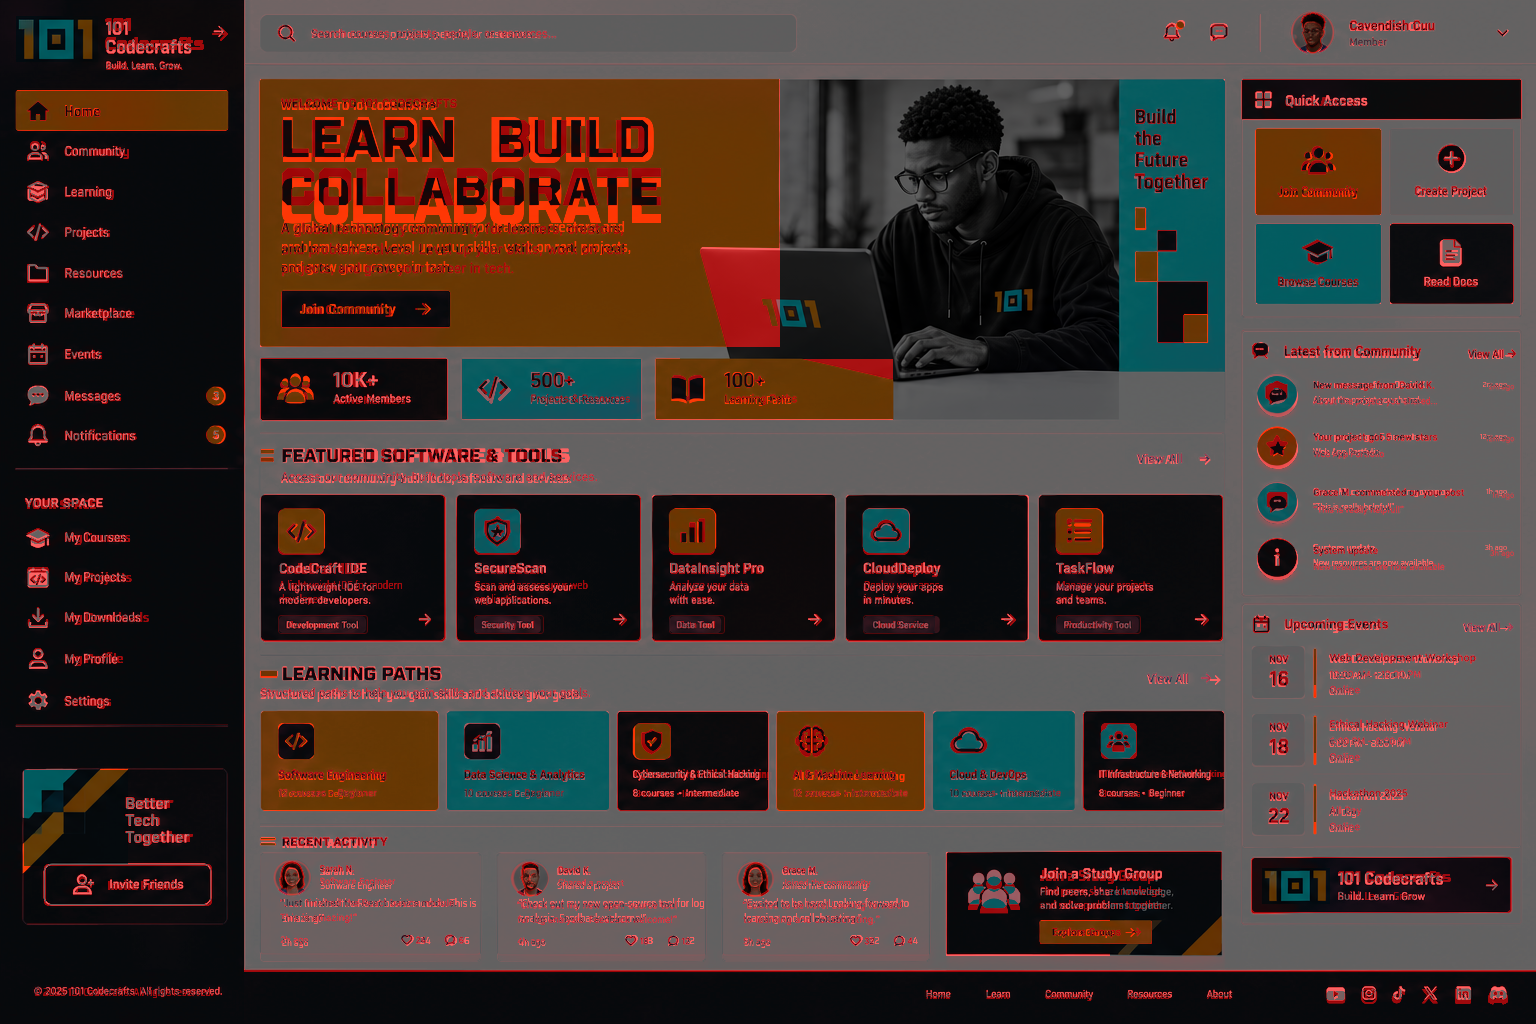
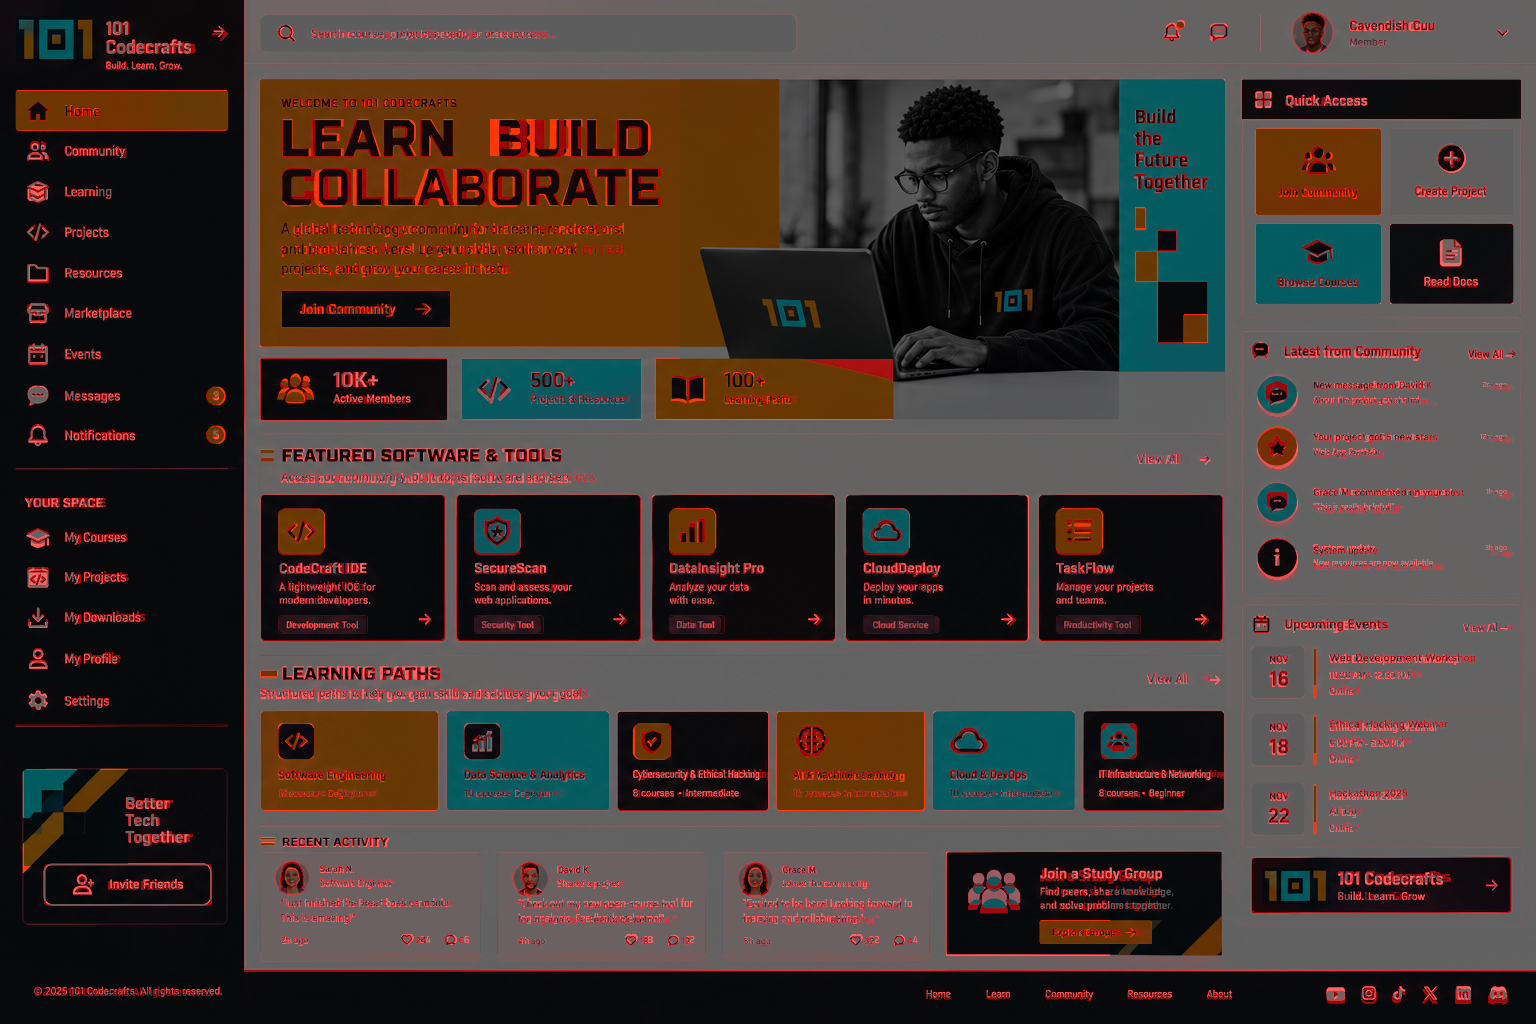
Dashboard rounds 2-3: hero heading calibration, activity cards (SSIM 0.8116)

diff --git a/css/dashboard.css b/css/dashboard.css
@@ -6,17 +6,17 @@
 .side{left:0;top:0;width:244px;height:972px;background:#10181f;color:#fff}
 .side>*{position:absolute}
 .brand-logo{left:16px;top:16px;width:82px;height:46px}
-.brand-name{left:105px;top:16px;font-family:var(--disp);font-size:18px;line-height:19px;color:#fff}
+.brand-name{left:106px;top:20px;font-family:var(--disp);font-size:16.3px;line-height:18.5px;color:#fff}
 .brand-tag{left:106px;top:59px;font-size:10px;font-weight:500;color:#dfe5ea}
 .side-arrow{left:210px;top:24px;width:17px;height:17px;color:#dfe5ea}
 .nav{left:16px;width:212px}
-.nav a{position:absolute;left:0;width:212px;height:39px;display:flex;align-items:center;font-size:14px;font-weight:500;color:#eef2f5}
+.nav a{position:absolute;left:0;width:212px;height:39px;display:flex;align-items:center;font-size:13.4px;font-weight:500;color:#eef2f5}
 .nav a svg{position:absolute;left:10px;width:24px;height:24px}
 .nav a span{position:absolute;left:48px}
 .nav a.active{background:var(--or);color:#10181f;font-weight:600;font-size:15px}
 .nav .badge{position:absolute;left:190px;width:18px;height:18px;border-radius:50%;background:var(--or);color:#fff;font-size:11px;font-weight:700;display:flex;align-items:center;justify-content:center}
 .side-rule{left:16px;width:212px;height:2px;background:#22313f}
-.side-h{left:25px;top:494px;font-size:13px;font-weight:700;letter-spacing:.3px;color:#fff}
+.side-h{left:26px;top:492px;font-size:13px;font-weight:700;letter-spacing:1.3px;color:#fff}
 .invite{left:23px;top:769px;width:204px;height:155px;border:1px solid #273643;border-radius:4px;background:#0e161d}
 .invite img{position:absolute;left:0;top:0}
 .invite .t{position:absolute;left:101px;top:25px;font-family:var(--disp);font-size:15px;line-height:17px;color:#fff}
@@ -37,11 +37,12 @@
 
 /* hero */
 .hero{left:260px;top:79px;width:520px;height:268px;background:#fc8b0e}
-.hero-photo{left:680px;top:79px;width:545px;height:341px}
+.hero-photo{left:680px;top:79px;width:545px;height:341px;z-index:2}
+.cyanp,.stat{z-index:3}
 .hero>*{position:absolute}
-.hero .kick{left:21px;top:17px;font-size:12px;font-weight:700;color:#141a1f;letter-spacing:.1px}
-.hero h1{left:20px;top:33px;font-family:var(--disp);font-weight:400;font-size:52px;line-height:50px;color:#141a1f;transform:scaleY(1.22);transform-origin:0 0;white-space:pre}
-.hero p{left:21px;top:139px;width:360px;font-size:14.5px;line-height:19.8px;font-weight:500;color:#1c1f22}
+.hero .kick{left:21px;top:14px;font-size:12px;font-weight:700;color:#141a1f;letter-spacing:.95px}
+.hero h1{left:20px;top:35px;transform:scaleY(1.03);transform-origin:0 0;font-family:var(--disp);font-weight:400;font-size:51.6px;line-height:48px;color:#141a1f;white-space:pre}
+.hero p{left:21px;top:141px;width:350px;font-size:14.5px;line-height:19.8px;font-weight:500;color:#1c1f22}
 .hero .cta{left:22px;top:212px;width:168px;height:36px;background:#10181f;color:var(--or);font-size:14px;font-weight:600;display:flex;align-items:center;gap:22px;padding-left:18px}
 .cyanp{left:1120px;top:79px;width:105px;height:292px;background:#05e6f1}
 .cyanp>*{position:absolute}
@@ -61,7 +62,7 @@
 /* section heads */
 .rule{left:260px;width:962px;height:1px;background:#dfe5ea}
 .sec-ic{width:13px;height:12px;background:linear-gradient(var(--or) 0 4px,transparent 4px 8px,var(--or) 8px)}
-.sec-h{font-family:var(--disp);font-size:18px;line-height:20px;color:#10181f;white-space:nowrap}
+.sec-h{font-family:var(--disp);font-size:17.5px;line-height:20px;color:#10181f;white-space:nowrap}
 .sec-sub{font-size:12.5px;color:#3e5d74;font-weight:500}
 .viewall{font-size:12.5px;font-weight:500;color:#1b8acb;display:flex;align-items:center;gap:20px}
 .viewall svg{width:14px;height:14px}
@@ -72,7 +73,7 @@
 .tool .ib{left:17px;top:14px;width:46px;height:46px;border-radius:6px;display:flex;align-items:center;justify-content:center;color:#10181f}
 .tool .ib svg{width:28px;height:28px}
 .tool h3{left:18px;top:63px;font-size:14.5px;font-weight:600}
-.tool p{left:18px;top:84px;font-size:10.5px;line-height:13.5px;color:#d5dce2;width:150px}
+.tool p{left:18px;top:85px;font-size:10.5px;line-height:13.5px;color:#d5dce2;width:112px}
 .tool .tag{left:17px;top:120px;height:19px;padding:0 9px;border:1px solid #34424e;border-radius:3px;font-size:9.5px;line-height:17px;color:#d8e0e6;background:#16212b}
 .tool .go{left:156px;top:117px;width:16px;height:16px;color:#fff}
 
@@ -91,11 +92,11 @@
 .act{top:852px;height:110px;background:#f8fafb;border:1px solid #dfe5ea;border-radius:4px}
 .act>*{position:absolute}
 .act img{left:13px;top:6px;width:38px;height:38px;border-radius:50%}
-.act b{left:59px;top:11px;font-size:10px;font-weight:600}
-.act .who{left:59px;top:25px;font-size:9.5px;color:#5f6d78}
-.act q{left:21px;top:44px;font-size:10.5px;line-height:14.5px;color:#2d4b62;width:200px;quotes:none}
-.act .ago{left:21px;top:82px;font-size:9.5px;color:#5f6d78}
-.act .meta{top:80px;display:flex;gap:6px;font-size:10px;color:#203040;align-items:center}
+.act b{left:59px;top:9px;font-size:10px;font-weight:600}
+.act .who{left:59px;top:23px;font-size:9.5px;color:#5f6d78}
+.act q{left:20px;top:44px;font-size:10.8px;line-height:14.5px;color:#2d4b62;width:186px;quotes:none}
+.act .ago{left:21px;top:80px;font-size:9.5px;color:#5f6d78}
+.act .meta{top:79px;display:flex;gap:6px;font-size:10px;color:#203040;align-items:center}
 .act .meta svg{width:13px;height:13px}
 .study{left:946px;top:852px;width:276px;height:104px;background:#10181f;color:#fff;overflow:hidden}
 .study>*{position:absolute}

diff --git a/dashboard.html b/dashboard.html
@@ -170,7 +170,7 @@ COLLABORATE</h1>
 <!-- ============ RECENT ACTIVITY ============ -->
 <div class="rule" style="top:826px"></div>
 <i class="abs" style="left:261px;top:837px;width:14px;height:8px;background:linear-gradient(var(--or) 0 2px,transparent 2px 5px,var(--or) 5px)"></i>
-<h2 class="sec-h" style="left:282px;top:834px;font-family:var(--body);font-weight:700;font-size:13px">RECENT ACTIVITY</h2>
+<h2 class="sec-h" style="left:282px;top:834px;font-family:var(--body);font-weight:700;font-size:14px;top:832px;letter-spacing:.4px">RECENT ACTIVITY</h2>
 
 <article class="act hov" style="left:260px;width:221px"><img src="assets/img/avatar-sarah.png" alt=""><b>Sarah N.</b><span class="who">Software Engineer</span><q>"Just finished the React basics module. This is amazing!"</q><span class="ago">2h ago</span><span class="meta" style="left:140px"><svg><use href="#i-heart"/></svg>24 <svg style="margin-left:8px"><use href="#i-comment"/></svg>6</span></article>
 <article class="act hov" style="left:497px;width:209px"><img src="assets/img/avatar-david.png" alt=""><b>David K.</b><span class="who">Shared a project</span><q>"Check out my new open-source tool for log analysis. Feedback welcome!"</q><span class="ago">4h ago</span><span class="meta" style="left:127px"><svg><use href="#i-heart"/></svg>18 <svg style="margin-left:8px"><use href="#i-comment"/></svg>12</span></article>

diff --git a/src/dashboard.html b/src/dashboard.html
@@ -112,7 +112,7 @@ COLLABORATE</h1>
 <!-- ============ RECENT ACTIVITY ============ -->
 <div class="rule" style="top:826px"></div>
 <i class="abs" style="left:261px;top:837px;width:14px;height:8px;background:linear-gradient(var(--or) 0 2px,transparent 2px 5px,var(--or) 5px)"></i>
-<h2 class="sec-h" style="left:282px;top:834px;font-family:var(--body);font-weight:700;font-size:13px">RECENT ACTIVITY</h2>
+<h2 class="sec-h" style="left:282px;top:834px;font-family:var(--body);font-weight:700;font-size:14px;top:832px;letter-spacing:.4px">RECENT ACTIVITY</h2>
 
 <article class="act hov" style="left:260px;width:221px"><img src="assets/img/avatar-sarah.png" alt=""><b>Sarah N.</b><span class="who">Software Engineer</span><q>"Just finished the React basics module. This is amazing!"</q><span class="ago">2h ago</span><span class="meta" style="left:140px"><svg><use href="#i-heart"/></svg>24 <svg style="margin-left:8px"><use href="#i-comment"/></svg>6</span></article>
 <article class="act hov" style="left:497px;width:209px"><img src="assets/img/avatar-david.png" alt=""><b>David K.</b><span class="who">Shared a project</span><q>"Check out my new open-source tool for log analysis. Feedback welcome!"</q><span class="ago">4h ago</span><span class="meta" style="left:127px"><svg><use href="#i-heart"/></svg>18 <svg style="margin-left:8px"><use href="#i-comment"/></svg>12</span></article>

diff --git a/tools/ink.py b/tools/ink.py
@@ -1,0 +1,14 @@
+import sys,json
+import numpy as np
+from PIL import Image
+# ink.py ref ren "name:x0,y0,x1,y1:mode" ...  mode dark|light : bbox of ink pixels in region for both images
+R=np.array(Image.open(sys.argv[1]).convert('L')).astype(int); N=np.array(Image.open(sys.argv[2]).convert('L')).astype(int)
+for spec in sys.argv[3:]:
+    name,box,mode=spec.split(':'); x0,y0,x1,y1=map(int,box.split(','))
+    out=[]
+    for A in (R,N):
+        a=A[y0:y1,x0:x1]
+        m = a<80 if mode=='dark' else a>170
+        ys,xs=np.where(m)
+        out.append((x0+xs.min(),y0+ys.min(),x0+xs.max()+1,y0+ys.max()+1) if len(xs) else None)
+    print(f"{name:12s} ref={out[0]} ren={out[1]}")

diff --git a/tools/worst.py b/tools/worst.py
@@ -1,0 +1,13 @@
+import sys
+import numpy as np
+from PIL import Image
+from skimage.metrics import structural_similarity as ssim
+R=np.array(Image.open(sys.argv[1]).convert('L')); N=np.array(Image.open(sys.argv[2]).convert('L'))
+_,S=ssim(R,N,full=True,data_range=255)
+B=int(sys.argv[3]) if len(sys.argv)>3 else 64
+H,W=S.shape; rows=[]
+for y in range(0,H,B):
+  for x in range(0,W,B):
+    rows.append((S[y:y+B,x:x+B].mean(),x,y))
+rows.sort()
+print(' '.join(f"({x},{y}):{v:.2f}" for v,x,y in rows[:40]))

diff --git a/compare/scores.md b/compare/scores.md
@@ -5,3 +5,5 @@ Screenshots taken with headless Chromium at the mockup viewport, `?static=1` (an
 | Page | Round | Full SSIM | Weakest regions | Change |
 |---|---|---|---|---|
 | dashboard | 1 | 0.7933 | activity 0.688, latest 0.718, featured 0.752 | first full draft, assets cropped from mockup |
+| dashboard | 2 | 0.8053 | activity 0.688, latest 0.718 | hero heading calibrated to Russo One 51.6px, photo layered over hero (laptop overlap), sidebar text sizes |
+| dashboard | 3 | 0.8116 | activity 0.707, latest 0.718 | heading baseline, activity card text, tool descriptions |
